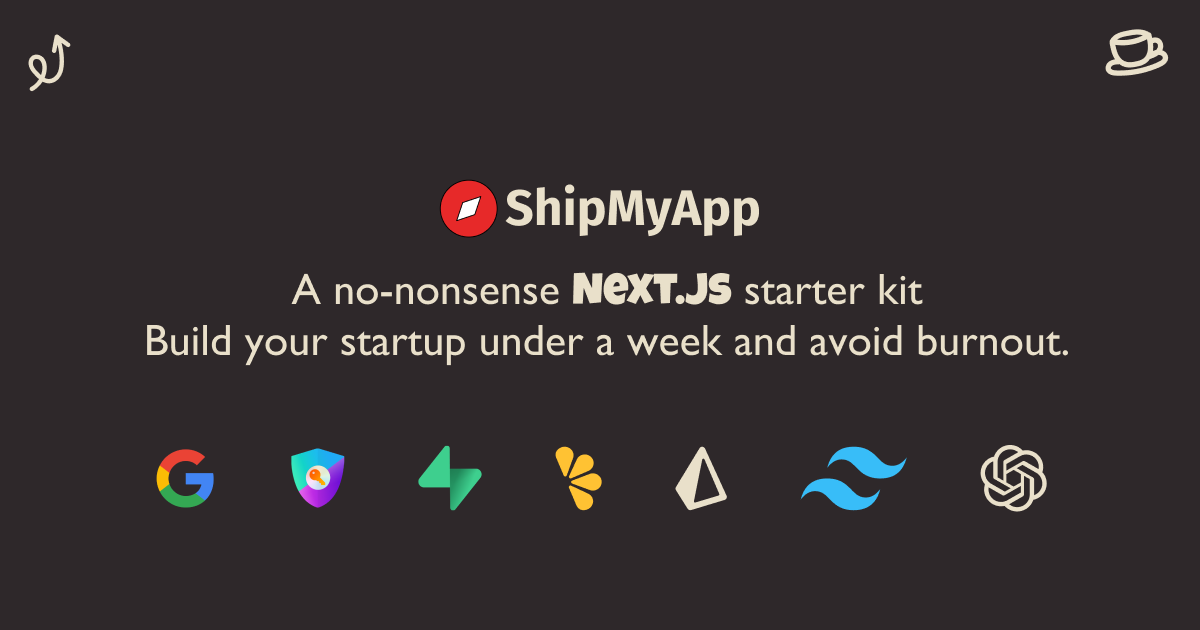
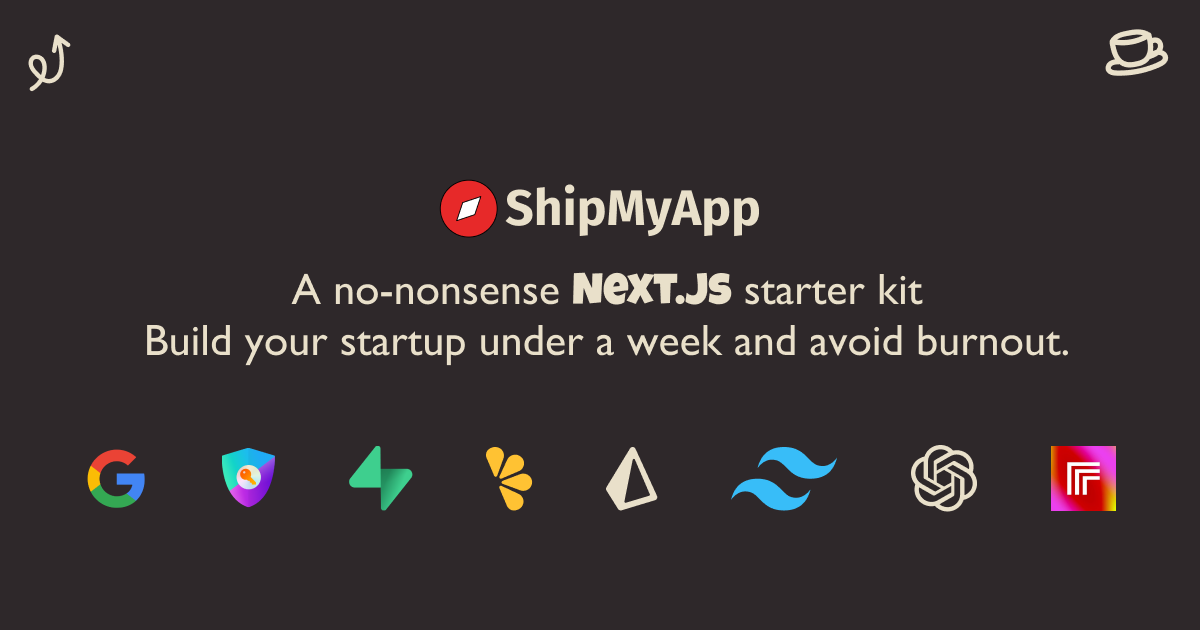
Update open graph image.

Changed region(s): [[0.0617, 0.6937, 0.9558, 0.8143]]

diff --git a/src/components/checkout-button.tsx b/src/components/checkout-button.tsx
@@ -18,7 +18,7 @@ export function CheckoutButton({
   const [confirmOpen, setConfirmOpen] = useState(false)
 
   const handleCheckoutClick = () => {
-    setConfirmOpen(true);
+    // setConfirmOpen(true);
   }
 
   return (
@@ -28,7 +28,8 @@ export function CheckoutButton({
         "btn-outline": !featured
       })} {...props}>
         <Banknote className="w-5 h-5" />
-        {children}
+        {/* {children} */}
+        Coming Soon
       </button>
     </>
   )
